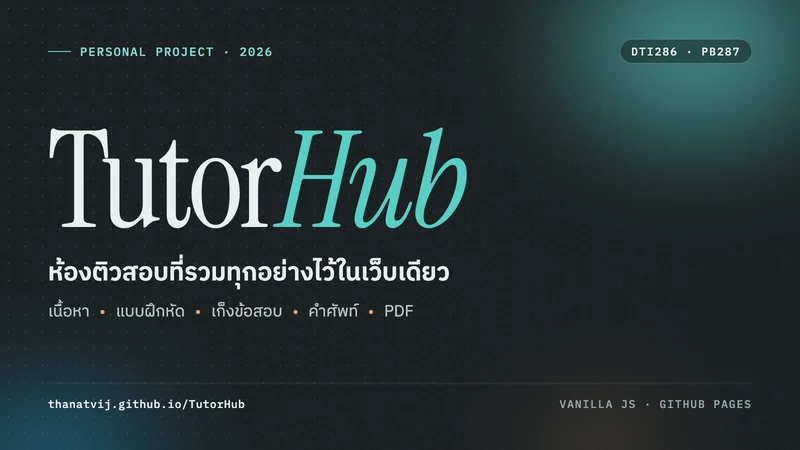
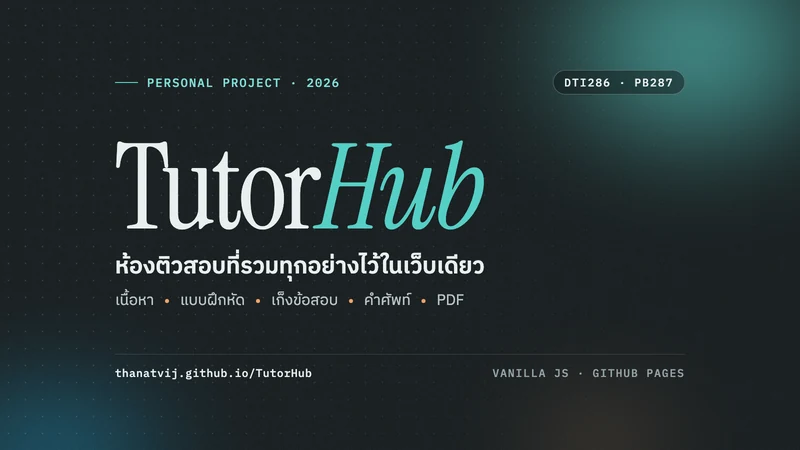
Fix clipped TutorHub cover text: safe-zone redesign and later wide-card breakpoint
The cover text (tagline and URL) was cut at the left edge on the cards.
The cover file itself was fine: cards draw it with object-fit: cover and
a 1.2x parallax scale, which showed only about x 133..1467 of the 1600px
image on desktop (x 444..1156 at 768px).

- Cover: all text now sits in the safe zone x 230..1370, y 140..760
  (title 236px, tighter spacing); only the glow bleeds past it; the
  safe zone is documented in docs/covers/tutorhub-cover.html; cover
  webps re-rendered (site and Astro copies)
- Wide cards (.card--wide) go side by side from 1200px instead of 720px;
  below that the media stays 16:9, so cover art is not cropped in a
  narrow box (styles.css and astro global.css)
- New cover-safe-zone.spec.ts: worst-case visible slice (parallax
  included) contains the safe zone at 9 widths from 390 to 2560px on the
  home and /personal-projects/, and the source keeps every text element
  inside the zone

diff --git a/docs/covers/tutorhub-cover.html b/docs/covers/tutorhub-cover.html
@@ -1,5 +1,6 @@
 <!doctype html>
 <html lang="th"><head><meta charset="utf-8"><title>TutorHub cover (rendered to assets/img/tutorhub-cover*.webp)</title>
+<!-- SAFE ZONE: all text stays inside x 230..1370, y 140..760 of the 1600x900 canvas. Cards show this image with object-fit: cover and a parallax scale of 1.2, which crops up to ~135px per side and ~65px top/bottom (parallax included); only the background blobs may go beyond the safe zone. -->
 <style>
 @font-face { font-family: "IBM Plex Sans Thai"; font-weight: 400; src: url("../../assets/fonts/ibm-plex-sans-thai-400-thai.woff2") format("woff2"); unicode-range: U+0E01-0E5B, U+200C-200D, U+25CC; }
 @font-face { font-family: "IBM Plex Sans Thai"; font-weight: 400; src: url("../../assets/fonts/ibm-plex-sans-thai-400-latin.woff2") format("woff2"); unicode-range: U+0000-00FF, U+2000-206F; }
@@ -11,7 +12,7 @@
 :root { --bg: #0a1012; --surface: #111a1d; --ink: #e9efef; --ink-2: #b9c6c8; --muted: #93a4a7; --line: #22323a; --accent: #55cfc6; --accent-strong: #7fe0d8; --signal: #f2a36a; }
 * { box-sizing: border-box; margin: 0; }
 html, body { width: 1600px; height: 900px; background: var(--bg); overflow: hidden; }
-.cover { position: relative; width: 1600px; height: 900px; padding: 78px 96px; color: var(--ink); font-family: "IBM Plex Sans Thai", sans-serif; overflow: hidden; isolation: isolate; display: flex; flex-direction: column; justify-content: space-between; }
+.cover { position: relative; width: 1600px; height: 900px; padding: 140px 230px; color: var(--ink); font-family: "IBM Plex Sans Thai", sans-serif; overflow: hidden; isolation: isolate; display: flex; flex-direction: column; justify-content: space-between; }
 .blob { position: absolute; border-radius: 50%; filter: blur(90px); z-index: -2; }
 .b1 { width: 760px; height: 560px; right: -170px; top: -190px; background: radial-gradient(closest-side, #55cfc6 0%, rgba(85,207,198,.55) 45%, transparent 100%); opacity: .8; }
 .b2 { width: 640px; height: 420px; left: -220px; bottom: -220px; background: radial-gradient(closest-side, #1d6f8f 0%, rgba(29,111,143,.5) 50%, transparent 100%); opacity: .85; }
@@ -23,12 +24,12 @@ html, body { width: 1600px; height: 900px; background: var(--bg); overflow: hidd
 .top .lbl { display: flex; align-items: center; gap: 18px; }
 .top .lbl::before { content: ""; width: 46px; height: 2px; background: var(--accent); }
 .chip { padding: 9px 22px; border: 1.5px solid rgba(233,239,239,.35); border-radius: 999px; color: var(--ink); background: rgba(10,16,18,.45); font-size: 22px; }
-h1 { font-family: "Instrument Serif", serif; font-weight: 400; font-size: 268px; line-height: .9; letter-spacing: -.03em; }
+h1 { font-family: "Instrument Serif", serif; font-weight: 400; font-size: 236px; line-height: .9; letter-spacing: -.03em; }
 h1 em { color: var(--accent); }
-.tag { margin-top: 30px; font-size: 50px; font-weight: 600; line-height: 1.3; max-width: 1150px; }
-.sub { margin-top: 18px; font-size: 32px; color: var(--ink-2); display: flex; gap: 22px; align-items: center; flex-wrap: wrap; }
+.tag { margin-top: 22px; font-size: 46px; font-weight: 600; line-height: 1.3; max-width: 1150px; }
+.sub { margin-top: 12px; font-size: 30px; color: var(--ink-2); display: flex; gap: 22px; align-items: center; flex-wrap: wrap; }
 .sub i { width: 8px; height: 8px; border-radius: 50%; background: var(--signal); display: inline-block; }
-.bottom { font-size: 22px; color: var(--muted); border-top: 1.5px solid rgba(233,239,239,.18); padding-top: 26px; }
+.bottom { font-size: 22px; color: var(--muted); border-top: 1.5px solid rgba(233,239,239,.18); padding-top: 22px; }
 .bottom b { color: var(--ink); font-weight: 500; text-transform: none; letter-spacing: .04em; }
 </style></head>
 <body><div class="cover">

diff --git a/astro/tests/cover-safe-zone.spec.ts b/astro/tests/cover-safe-zone.spec.ts
@@ -1,0 +1,48 @@
+import { test, expect } from '@playwright/test';
+import path_ from 'node:path';
+import { fileURLToPath } from 'node:url';
+
+const here = path_.dirname(fileURLToPath(import.meta.url));
+
+// The TutorHub cover is 1600x900 and its text lives in the safe zone x 230..1370, y 140..760 (docs/covers/tutorhub-cover.html).
+// Cards draw it with object-fit: cover plus a parallax scale of 1.2 and up to +-24px (12px on phones) of travel, so
+// the visible slice can be much smaller than the image. This checks that slice still contains the whole safe zone.
+const W = 1600, H = 900, SAFE = { x1: 230, x2: 1370, y1: 140, y2: 760 }, PARALLAX_SCALE = 1.2;
+
+for (const path of ['/', '/personal-projects/']) {
+  for (const width of [390, 768, 1024, 1199, 1200, 1280, 1440, 1920, 2560]) {
+    test(`cover text is never cropped: ${path} at ${width}px`, async ({ browser }) => {
+      const ctx = await browser.newContext({ viewport: { width, height: 900 }, reducedMotion: 'reduce' });
+      const page = await ctx.newPage();
+      await page.goto(path);
+      const box = await page.evaluate(() => {
+        const r = document.querySelector('img[src*="tutorhub-cover"]')!.parentElement!.getBoundingClientRect();
+        return { w: r.width, h: r.height };
+      });
+      const s = Math.max(box.w / W, box.h / H) * PARALLAX_SCALE;     // source px -> screen px
+      const travel = (width < 720 ? 12 : 24) / s;                    // worst-case parallax shift, in source px
+      const visW = box.w / s, visH = box.h / s;
+      const left = (W - visW) / 2, right = (W + visW) / 2;
+      const top = (H - visH) / 2 + travel, bottom = (H + visH) / 2 - travel;
+      expect(left, 'left edge').toBeLessThanOrEqual(SAFE.x1);
+      expect(right, 'right edge').toBeGreaterThanOrEqual(SAFE.x2);
+      expect(top, 'top edge').toBeLessThanOrEqual(SAFE.y1);
+      expect(bottom, 'bottom edge').toBeGreaterThanOrEqual(SAFE.y2);
+      await ctx.close();
+    });
+  }
+}
+
+test('the cover source keeps every text element inside the safe zone', async ({ page }) => {
+  await page.goto('file://' + path_.resolve(here, '../../docs/covers/tutorhub-cover.html'));
+  await page.evaluate(() => document.fonts.ready);
+  const boxes = await page.evaluate(() => [...document.querySelectorAll('.top span, h1, .tag, .sub, .bottom span')].map((e) => {
+    const r = e.getBoundingClientRect(); return { name: (e.textContent || '').trim().slice(0, 24), x1: r.left, x2: r.right, y1: r.top, y2: r.bottom };
+  }));
+  for (const b of boxes) {
+    expect(b.x1, `${b.name} left`).toBeGreaterThanOrEqual(SAFE.x1 - 1);
+    expect(b.x2, `${b.name} right`).toBeLessThanOrEqual(SAFE.x2 + 1);
+    expect(b.y1, `${b.name} top`).toBeGreaterThanOrEqual(SAFE.y1 - 1);
+    expect(b.y2, `${b.name} bottom`).toBeLessThanOrEqual(SAFE.y2 + 1);
+  }
+});

diff --git a/assets/css/styles.css b/assets/css/styles.css
@@ -432,7 +432,11 @@ button { font: inherit; color: inherit; background: none; border: 0; padding: 0;
 .card-grid { display: grid; gap: clamp(1.25rem, 2.5vw, 2rem); }
 @media (min-width: 720px) {
   .card-grid--2 { grid-template-columns: repeat(2, minmax(0, 1fr)); }
-  .card--wide { grid-column: 1 / -1; flex-direction: row; }
+  .card--wide { grid-column: 1 / -1; }
+}
+/* Wide cards go side-by-side only when there is room; below that the media keeps its 16:9 shape, so cover art is not cropped. */
+@media (min-width: 1200px) {
+  .card--wide { flex-direction: row; }
   .card--wide .card-media { flex: 1.15; aspect-ratio: auto; min-height: 320px; border-bottom: 0; border-right: 1px solid var(--line); }
   .card--wide .card-body { flex: 1; justify-content: center; }
 }

diff --git a/astro/src/styles/global.css b/astro/src/styles/global.css
@@ -429,7 +429,11 @@ button { font: inherit; color: inherit; background: none; border: 0; padding: 0;
 .card-grid { display: grid; gap: clamp(1.25rem, 2.5vw, 2rem); }
 @media (min-width: 720px) {
   .card-grid--2 { grid-template-columns: repeat(2, minmax(0, 1fr)); }
-  .card--wide { grid-column: 1 / -1; flex-direction: row; }
+  .card--wide { grid-column: 1 / -1; }
+}
+/* Wide cards go side-by-side only when there is room; below that the media keeps its 16:9 shape, so cover art is not cropped. */
+@media (min-width: 1200px) {
+  .card--wide { flex-direction: row; }
   .card--wide .card-media { flex: 1.15; aspect-ratio: auto; min-height: 320px; border-bottom: 0; border-right: 1px solid var(--line); }
   .card--wide .card-body { flex: 1; justify-content: center; }
 }
